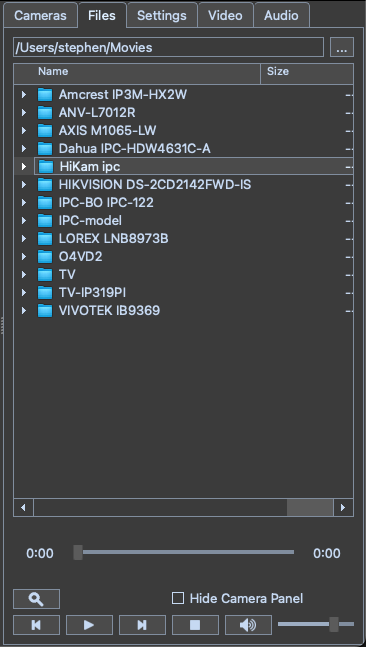
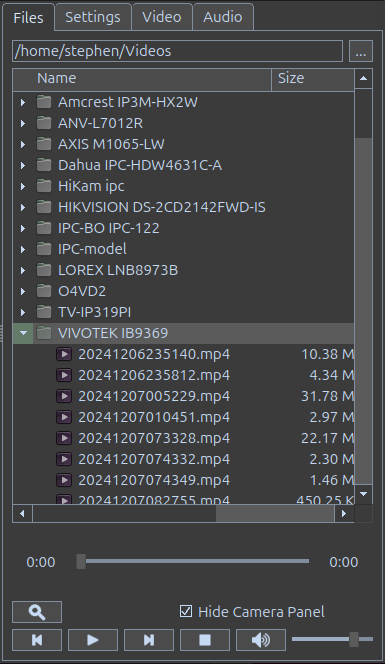
update README

diff --git a/README.md b/README.md
@@ -784,7 +784,11 @@ Settings pertain to preset selections or current camera position. The arrow butt
 
 &nbsp;
 
-<img src="assets/images/file_panel.png" style=" width: 366px;">
+The application maintains a folder for the storage of camera recordings. The folder by default is the OS video storage location, and can be changed using the directory setting at the top of the panel. There is a subfolder for each camera that is registered in the application. Inside the camera folders are the individual files recorded by the camera. The files are named using a datetime convention which represents the start time of the recording. The recording is padded in the front by a time interval specified on the Settings -> Alarm panel as Pre-Alarm Buffer Size. The file creation time in the OS represents the end time of the file, which occurs as a result of the file being committed to disk at the conclusion of the recording process.
+
+&nbsp;
+
+<img src="assets/images/file_panel.png" style=" width: 385px;">
 
 &nbsp;
 
